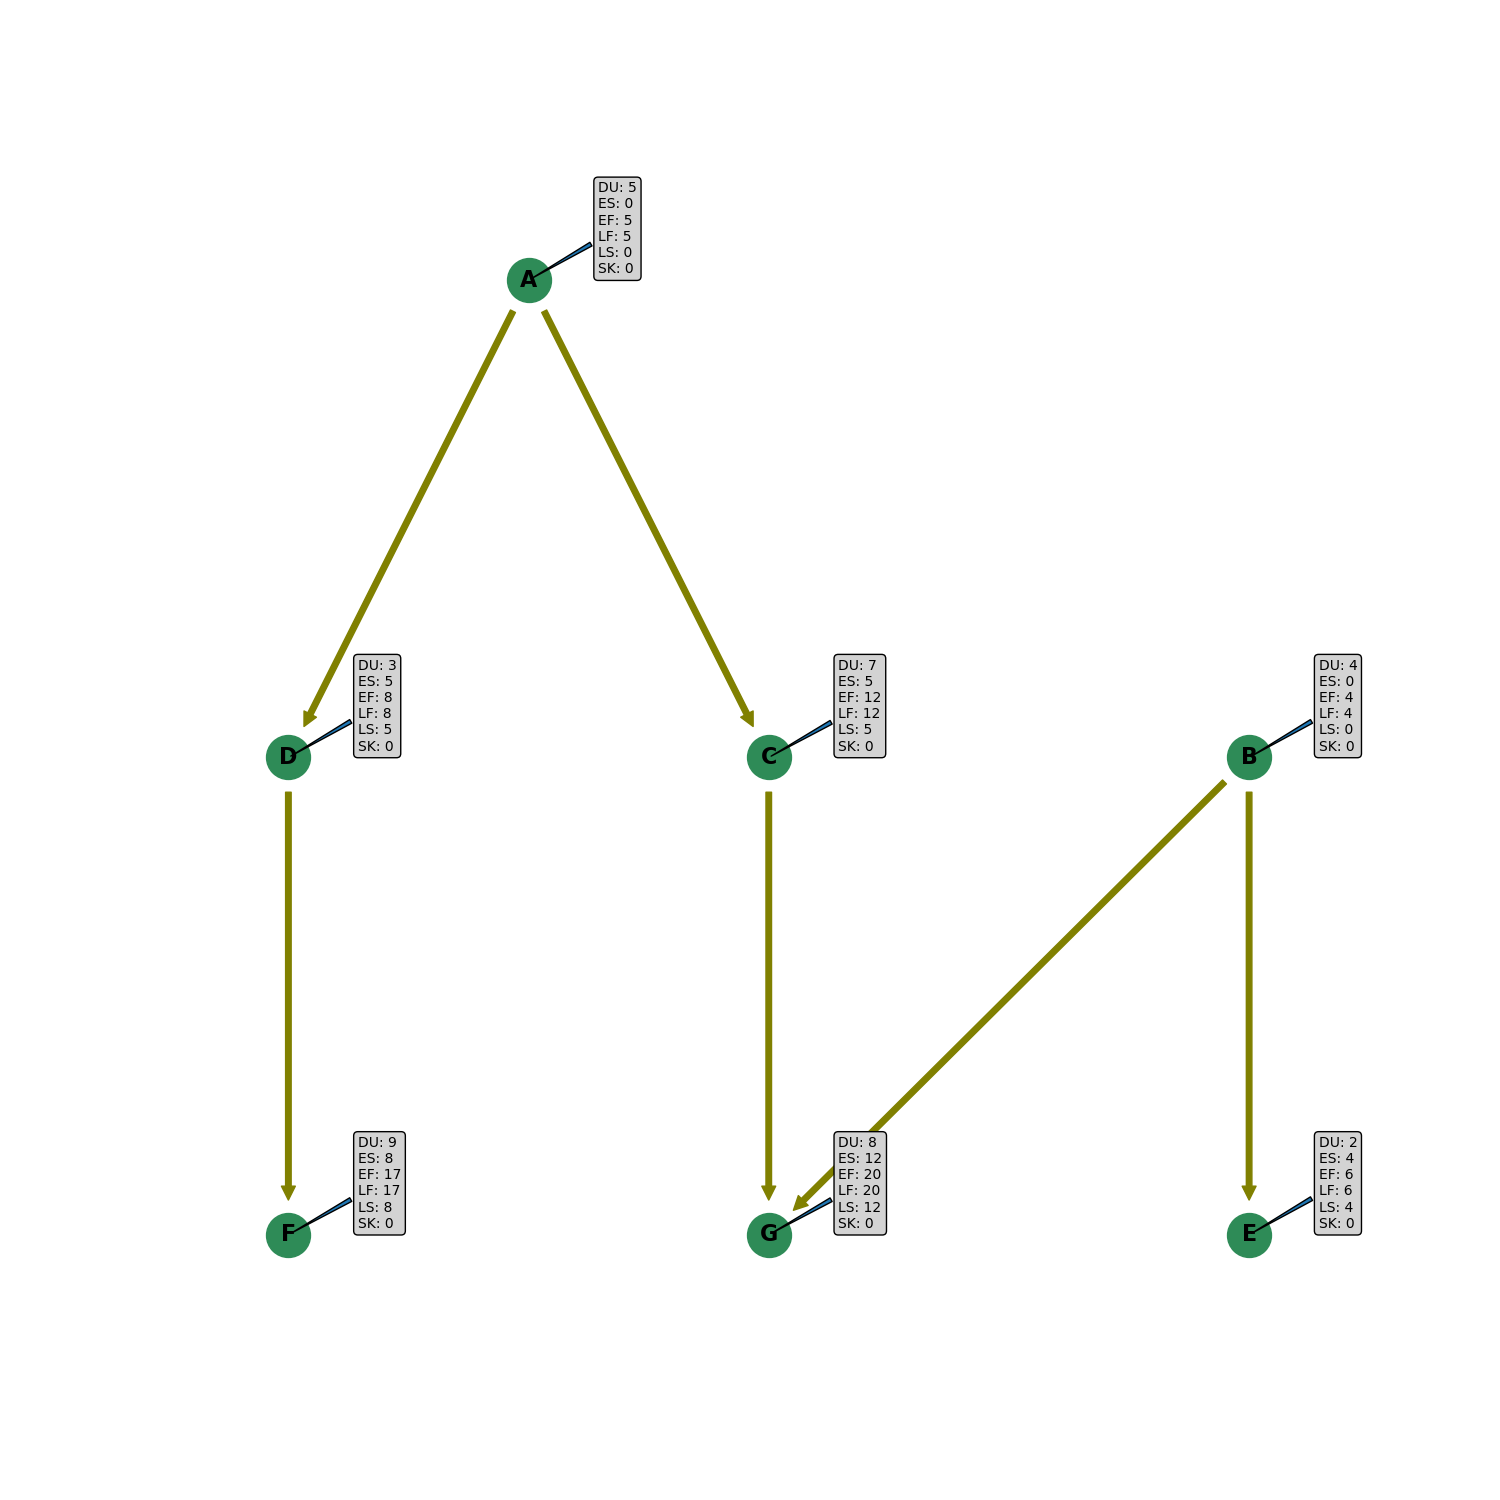
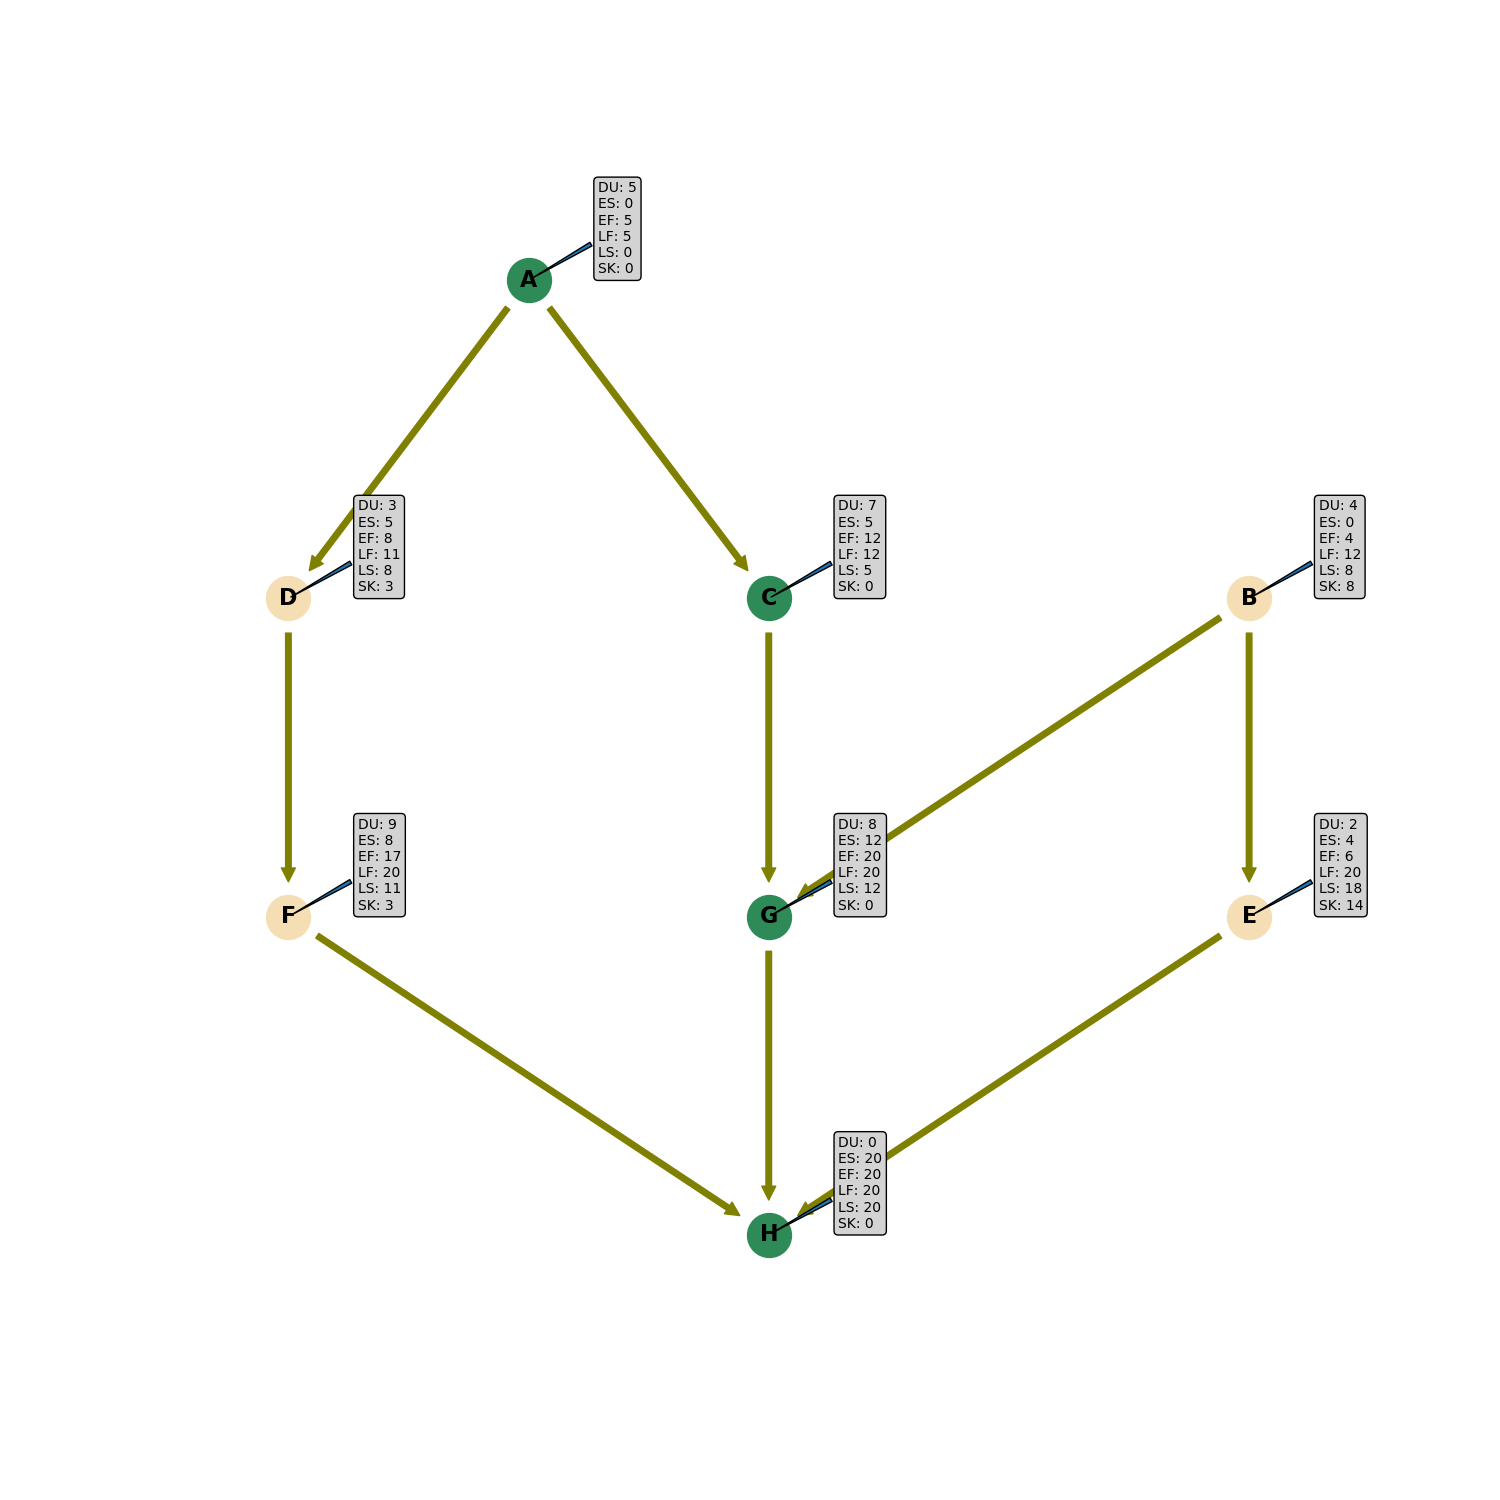
Add extra node as finish node to fix bugs

diff --git a/main.py b/main.py
@@ -7,7 +7,23 @@ for q in range(1, 7):
     graph = []
     atts = []
     path = []
+    new = []
+    st = ""
     data = pd.read_csv("data/data"+str(q)+".csv")
+    last = data.iloc[-1, 0]
+    last = chr(ord(last)+1)
+    # -------------------------------------------
+    for j in range(len(data)):
+        for k in range(len(data.iloc[j, 1])):
+            if data.iloc[j, 1][k] != '-':
+                new.append(data.iloc[j, 1][k])
+    # -------------------------------------------
+    for j in range(len(data)):
+        if not data.iloc[j, 0] in new:
+            st = st+data.iloc[j, 0]
+    # ------------------------------------------
+    df = pd.DataFrame([[last, st, 0]], columns=["ac", "pr", "du"])
+    data = data.append(df)
     for i in range(len(data)):
         graph.append([])
         atts.append({})
@@ -40,7 +56,7 @@ for q in range(1, 7):
                     visited[i] = True
                 else:
                     level[i] = max(level[s]+1, level[i])
-
+    print(graph)
     BFS(start, graph)
 
     levels = [None] * len(path)
